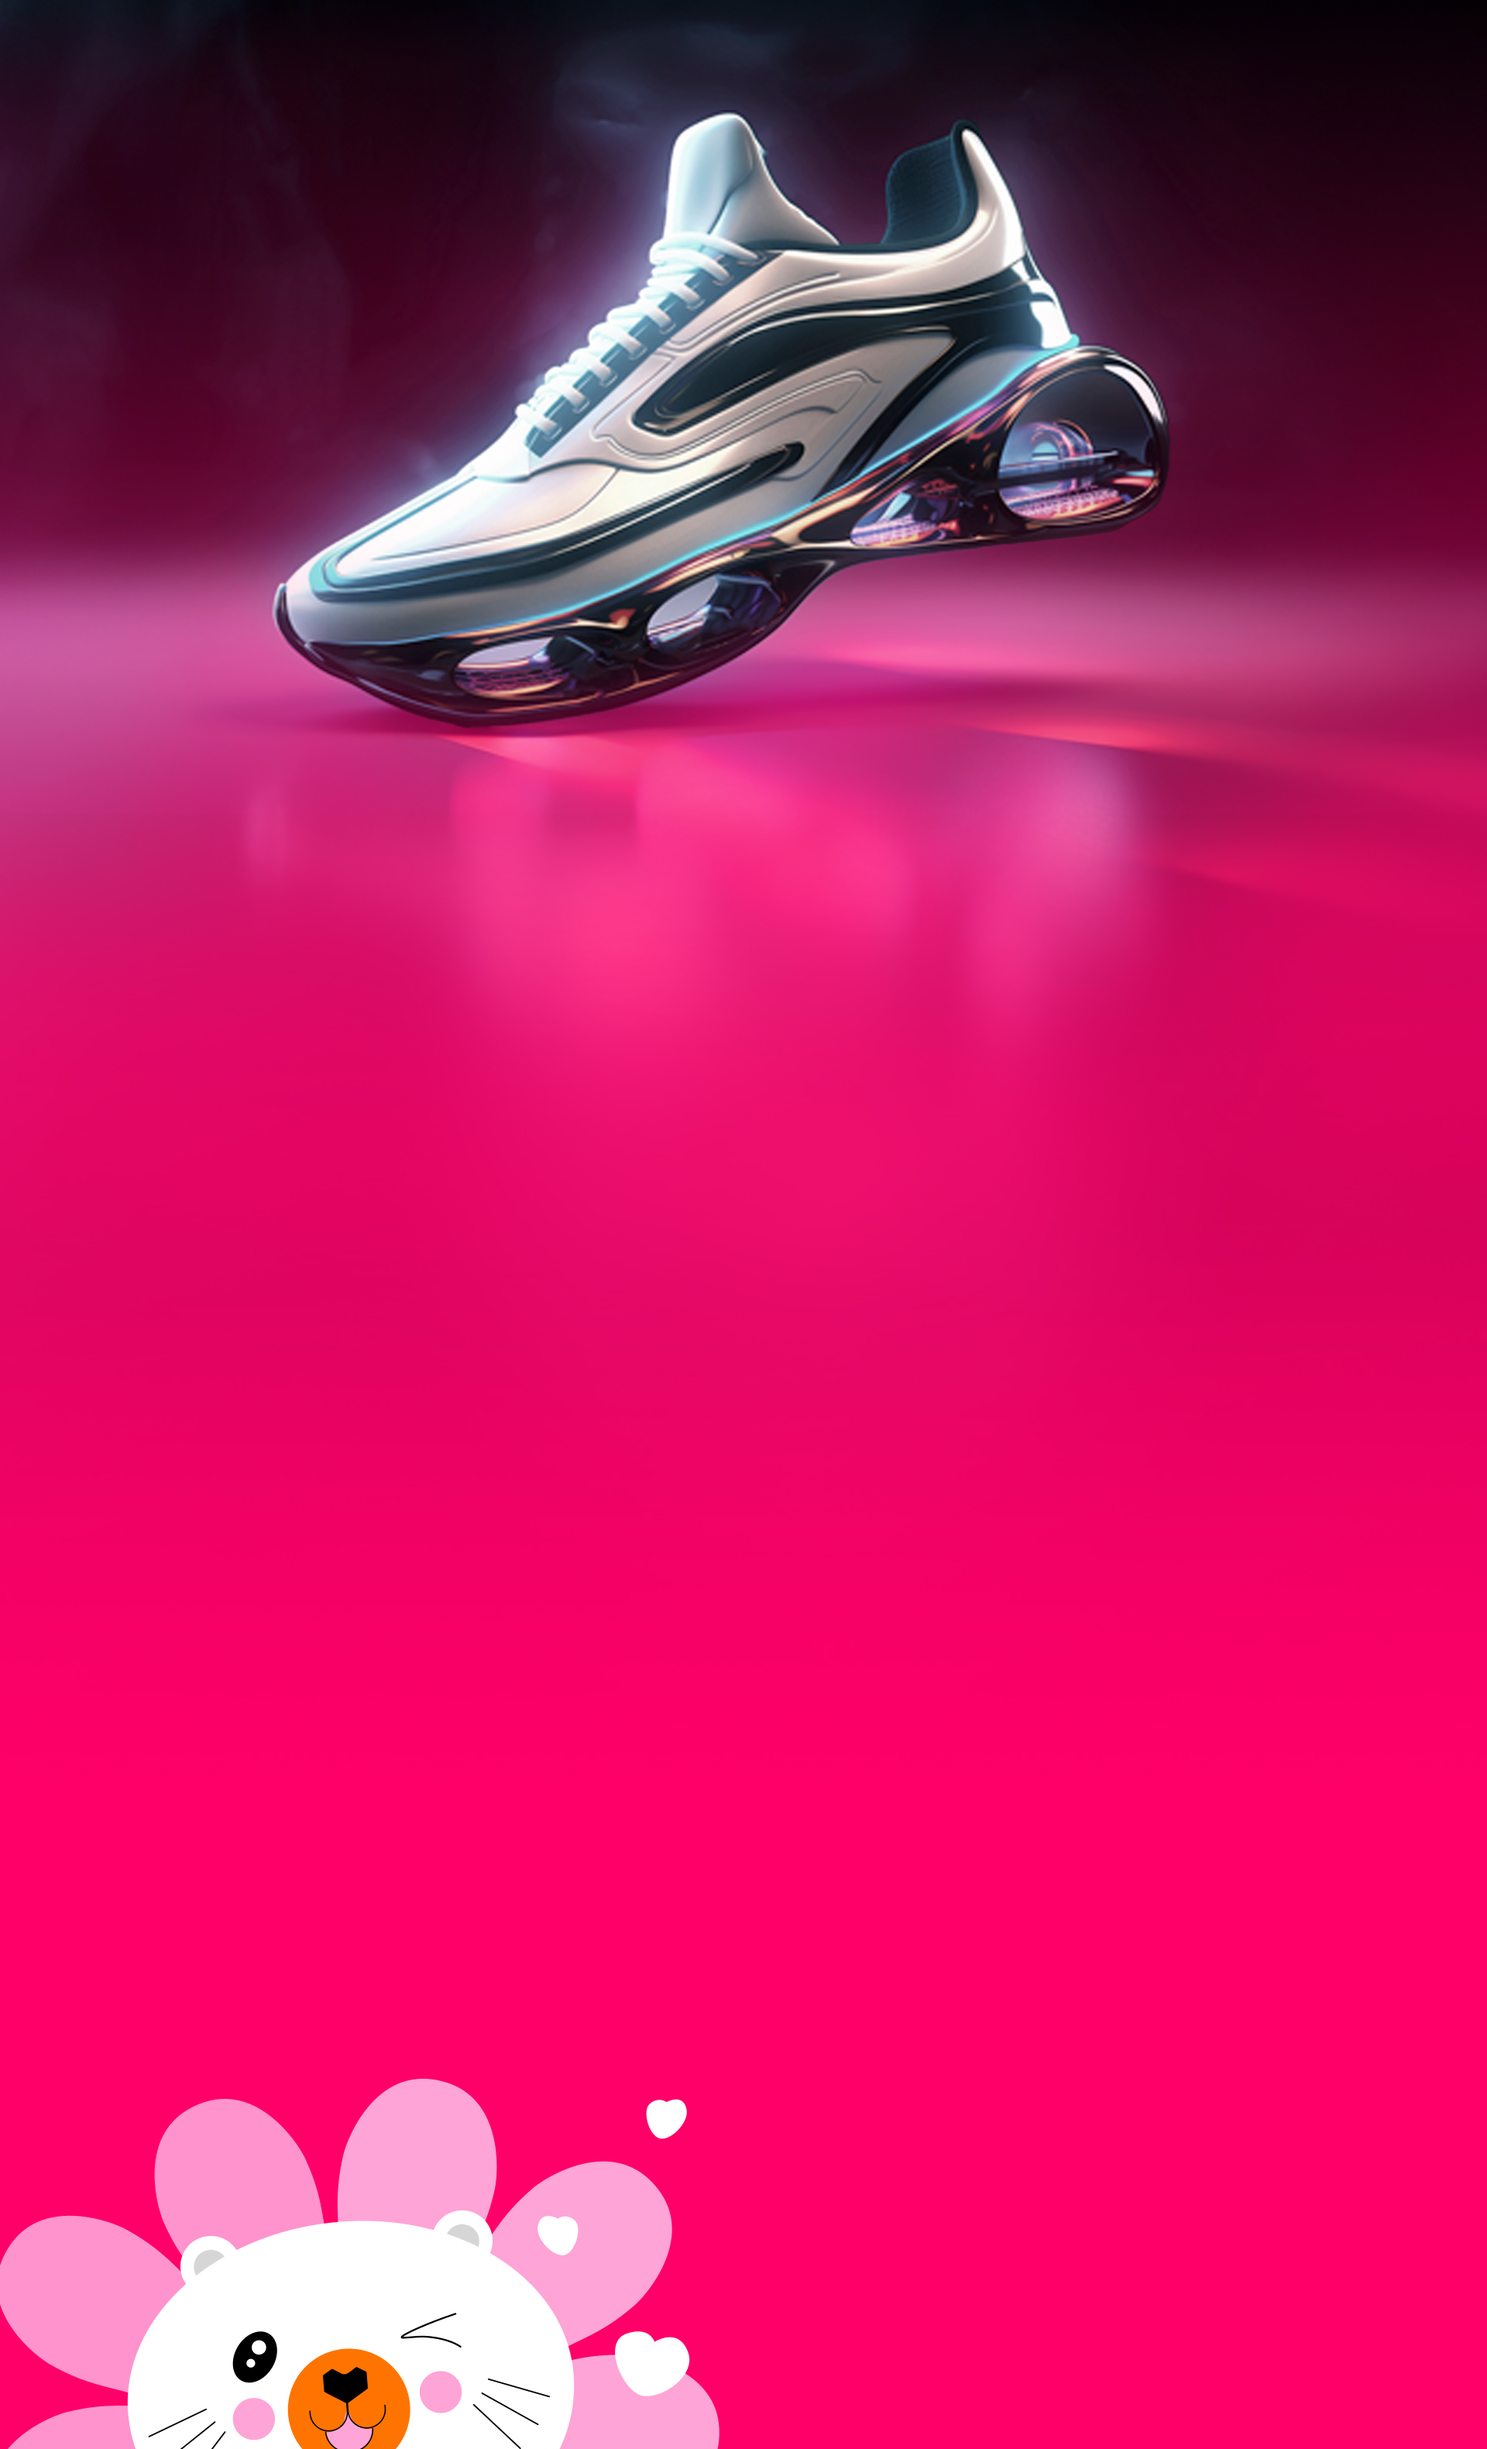
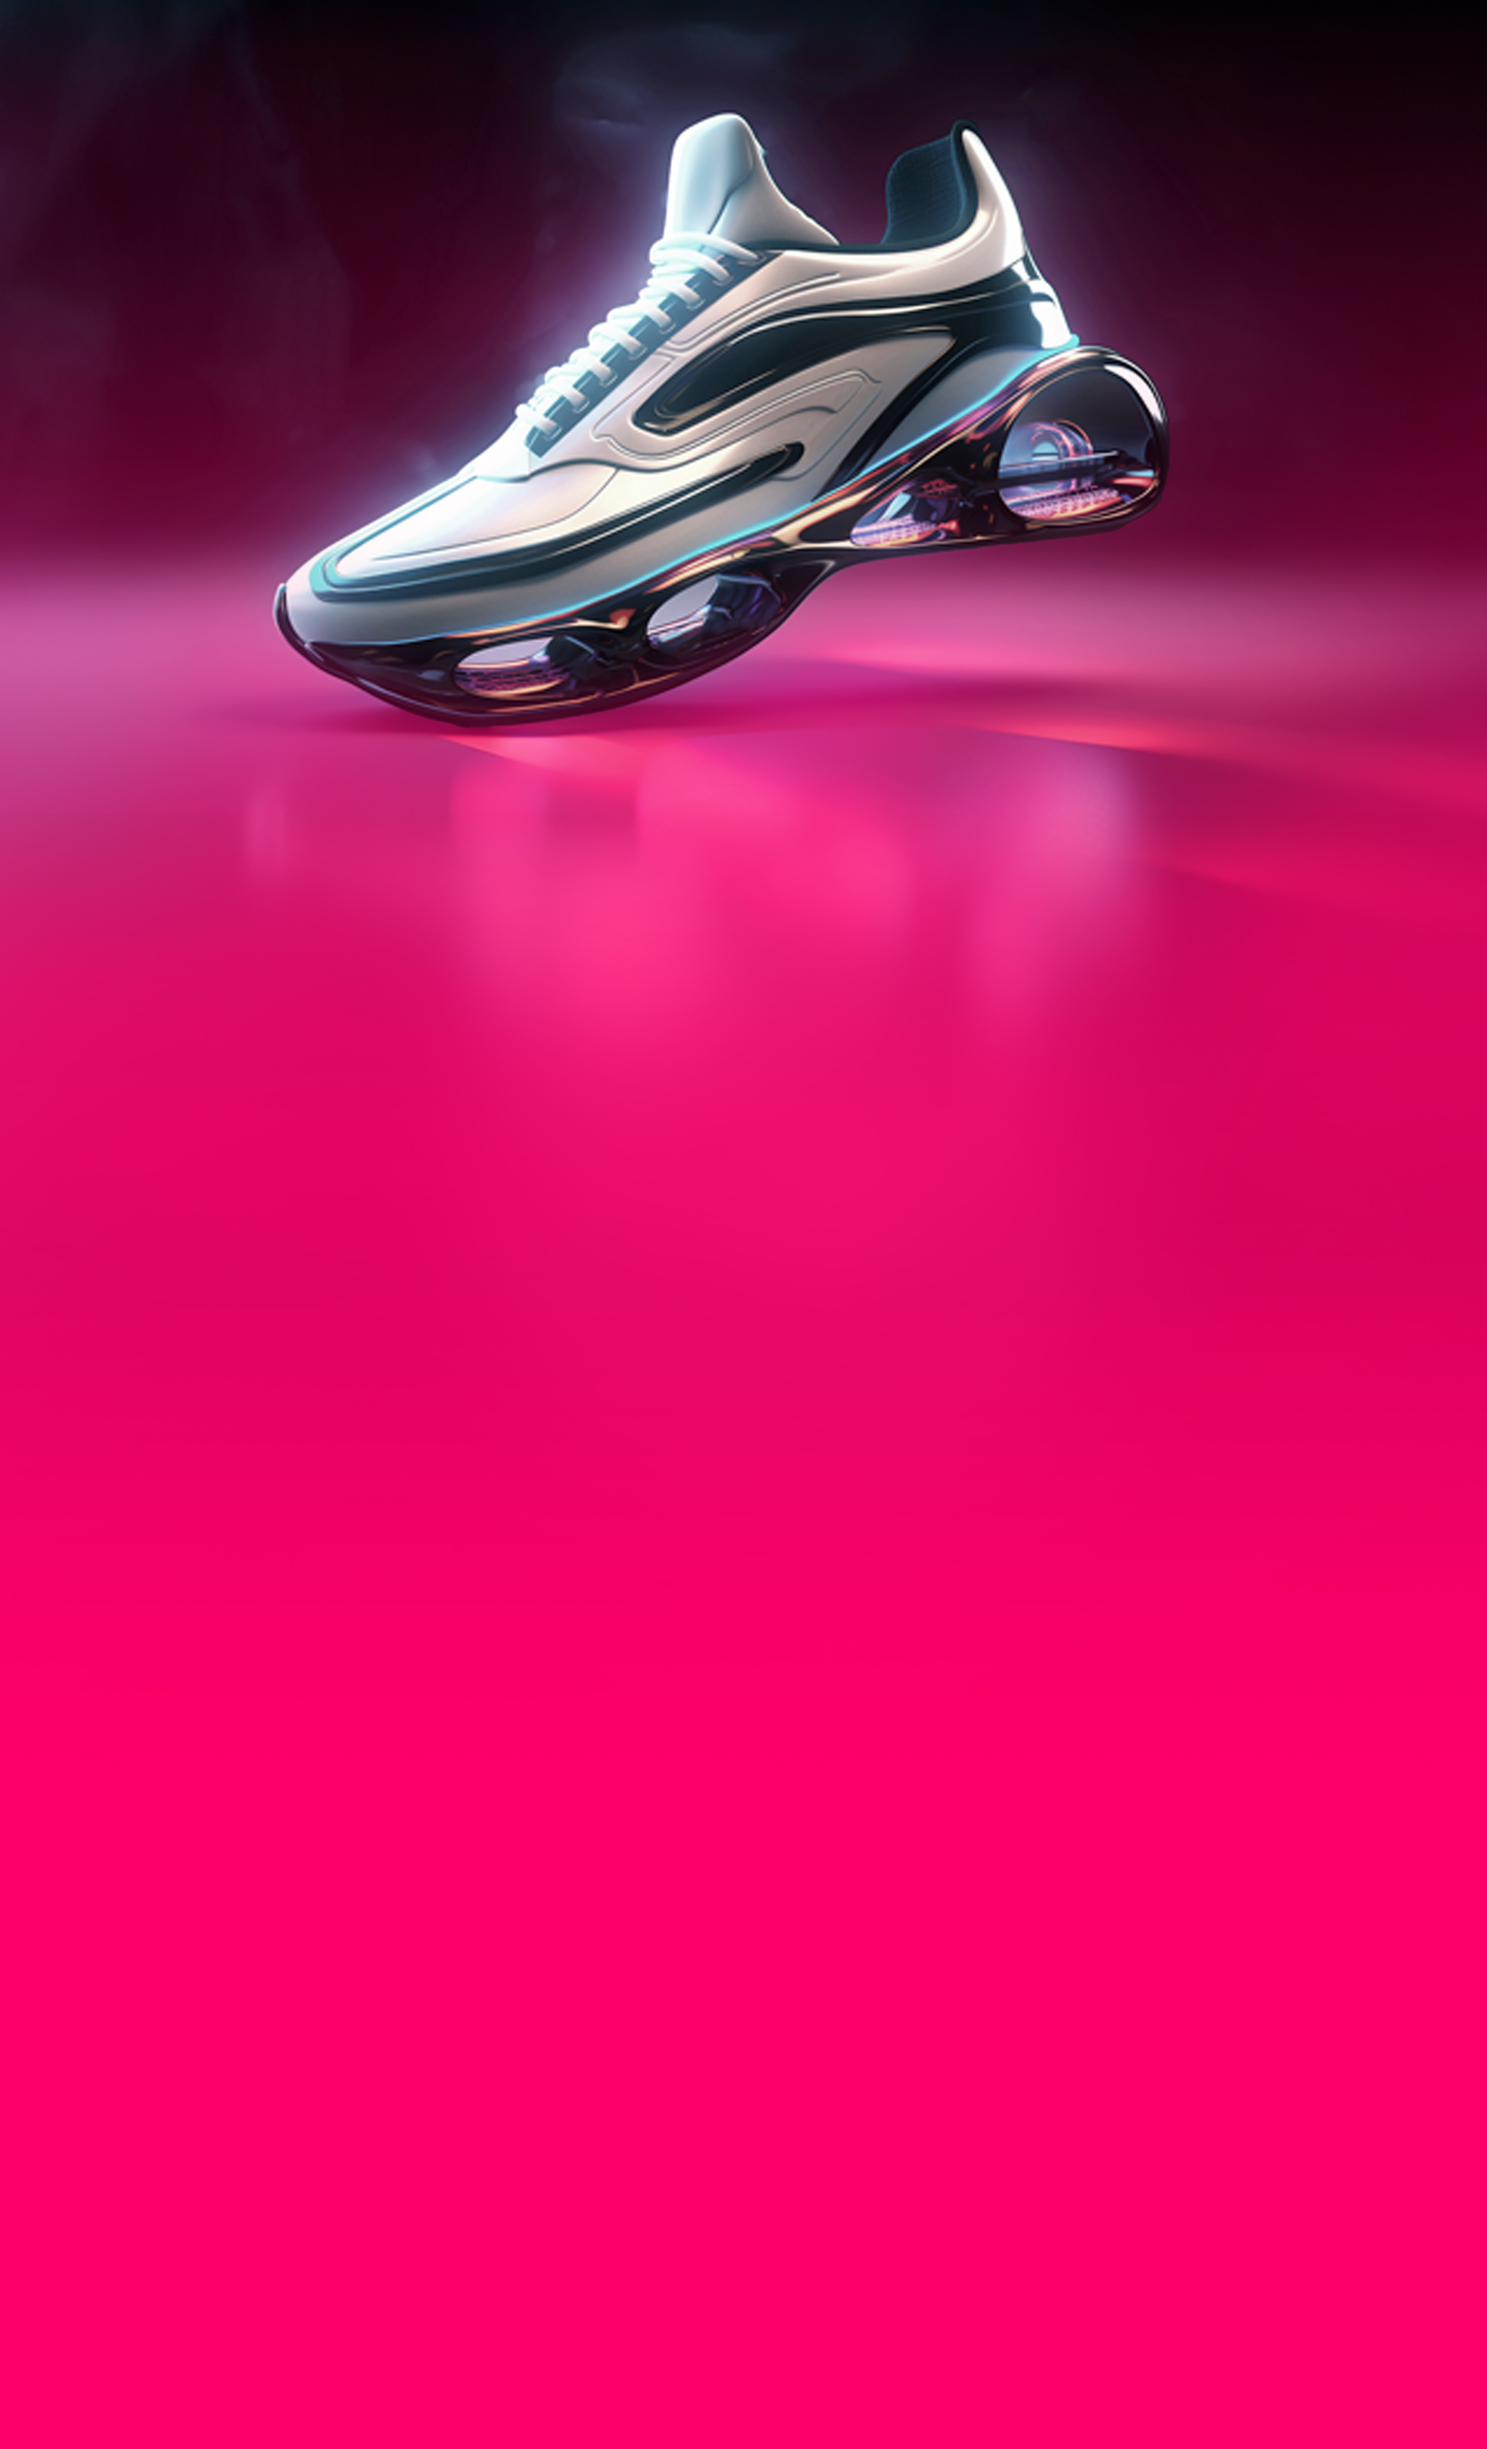
update feelback

Changed region(s): [[0.0, 0.8368, 0.5, 1.0]]

diff --git a/css/style.css b/css/style.css
@@ -207,21 +207,21 @@ input[type=submit] {
     height: 100%;
   }
   .img-2{
-    width: 60%;
-    top: 30%;
+    width: 55%;
+    top: 33%;
   }
   .img-text-1{
     width: 50%;
-    top: 69%;
+    top: 73%;
   }
   .md-slider .owl-theme .owl-nav.disabled+.owl-dots{
     margin-top: 1%;
   }
   .md-slider{
-    top: 49%;
+    top: 52%;
   }
   .md-form{
-    top: 73%;
+    top: 77%;
   }
   .md-form input[type='email']{
     width: 55%;
@@ -236,7 +236,15 @@ input[type=submit] {
     width: 15%;
     padding: 4px 0px;
   }
-
+  .md-text{
+    bottom: 3%;
+  }
+  .md-img-4{
+    position: absolute;
+    left: 0;
+    bottom: 0;
+    width: 45%;
+  }
 }
 
 @media screen and (min-width: 1400px){

diff --git a/home-page.html b/home-page.html
@@ -15,6 +15,7 @@
 <main class="page-main page-3 body-3">
 	<img src="./images/bg.jpg" alt="" class="bg-main md-mobile">
 	<img src="./images/bg-des.jpg" alt="" class="bg-main md-desktop">
+	<img src="./images/img-4.png" alt="" class="md-mobile md-img-4">
 	<img src="./images/banner.png" alt="" class="banner">
 	<img src="./images/img-2.png" alt="" class="img-2">
 	<div class="md-slider">

diff --git a/scripts/main.js b/scripts/main.js
@@ -51,7 +51,17 @@ owl.children().each( function( index ) {
 owl.owlCarousel({
   center: true,
   loop: true,
-  items: 1.8,
+  responsive:{
+        0:{
+            items: 1.5
+        },
+        600:{
+            items: 1.5
+        },
+        1000:{
+            items: 1.8
+        }
+    }
 });
 
 $(document).on('click', '.owl-item>div', function() {
